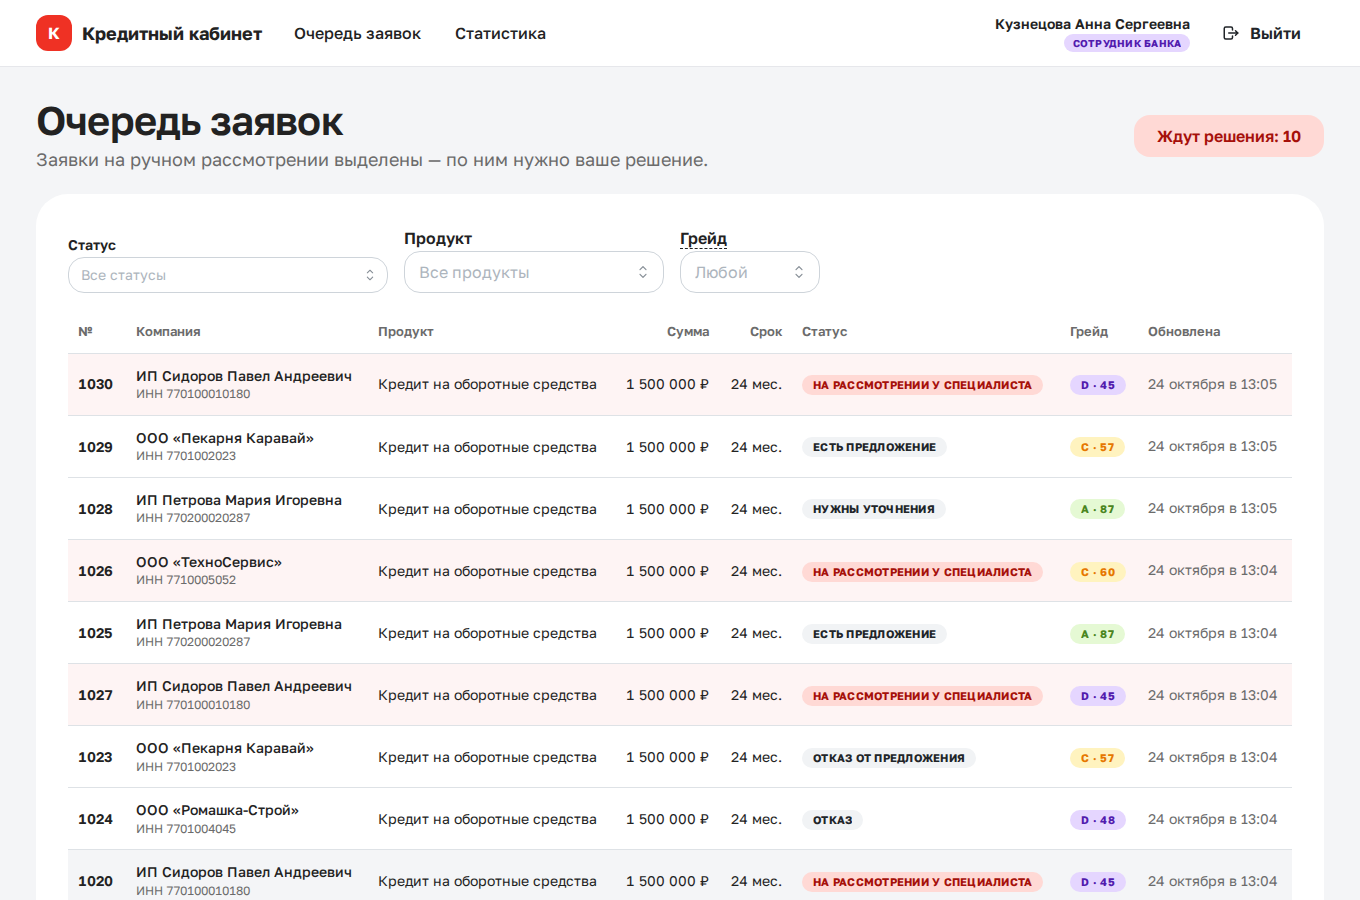
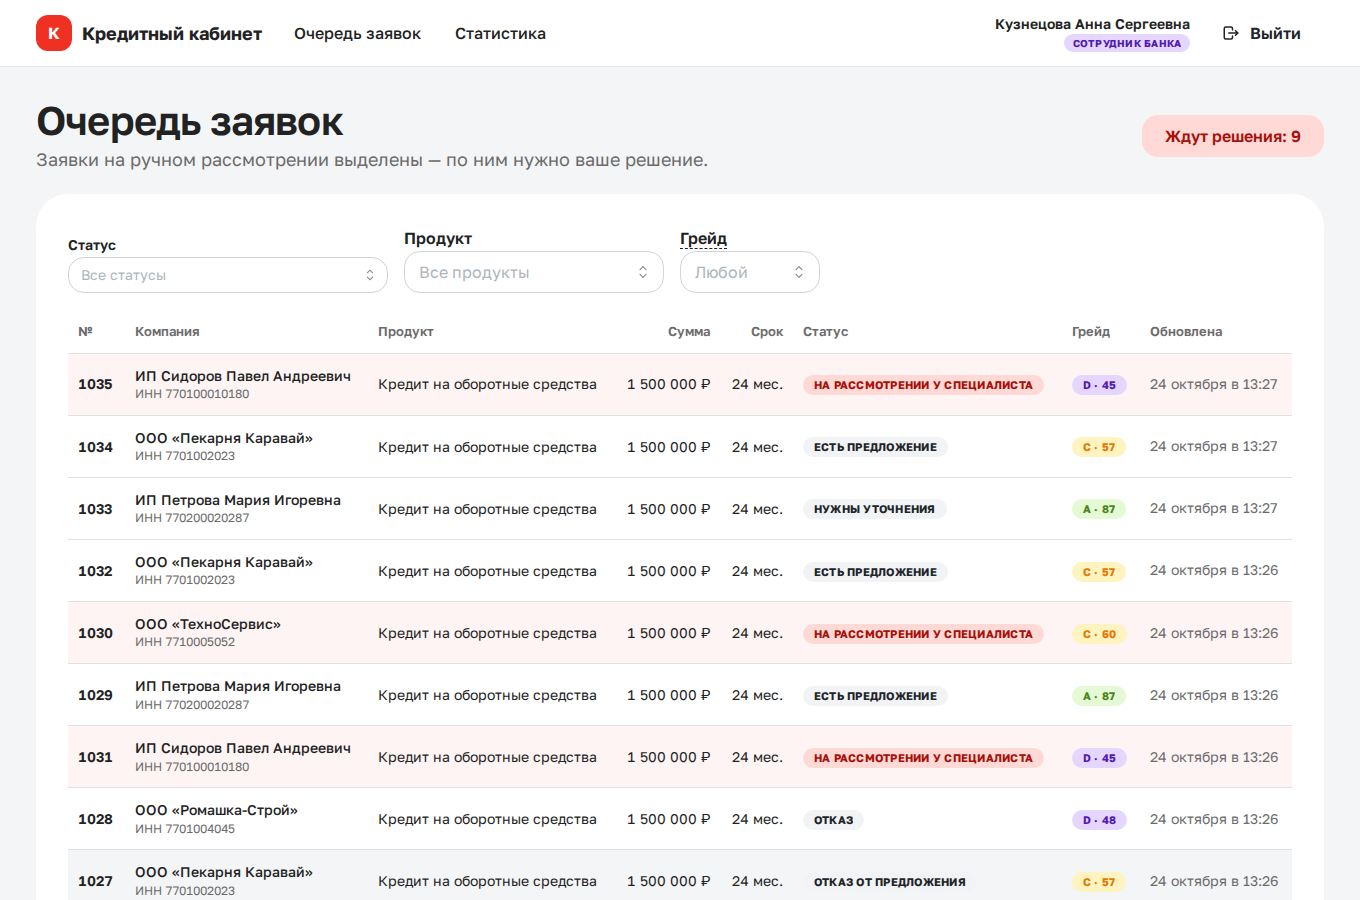
Исправления по проверке жюри в браузере: причина решения в карточке статуса, понятное объяснение встречного предложения, тексты, очередь на 768px

diff --git a/frontend/src/pages/bank/QueuePage.tsx b/frontend/src/pages/bank/QueuePage.tsx
@@ -14,6 +14,9 @@ import { useProducts } from "../client/ProductsPage";
 const PAGE_SIZE = 15;
 const GRADES = ["A", "B", "C", "D", "E"];
 
+// Бейджи в узкой таблице переносят текст, а не обрезают его многоточием
+const BADGE_NO_TRUNCATE = { root: { height: "auto", paddingBlock: 2 }, label: { whiteSpace: "normal" as const, overflow: "visible", textOverflow: "clip" } };
+
 export const GRADE_COLOR: Record<string, string> = { A: "lime", B: "lime", C: "yellow", D: "violet", E: "brand" };
 
 export function QueuePage() {
@@ -106,18 +109,18 @@ export function QueuePage() {
           {queue.isError && <ErrorState error={queue.error} onRetry={() => void queue.refetch()} />}
           {queue.data && queue.data.items.length === 0 && <EmptyState title="Заявок не найдено" text="Попробуйте убрать часть фильтров." />}
           {queue.data && queue.data.items.length > 0 && (
-            <Table.ScrollContainer minWidth={760}>
+            <Table.ScrollContainer minWidth={600}>
               <Table className="clean-table" verticalSpacing="sm" highlightOnHover={false} withRowBorders data-testid="queue-table">
                 <Table.Thead>
                   <Table.Tr>
                     <Table.Th>№</Table.Th>
                     <Table.Th>Компания</Table.Th>
-                    <Table.Th>Продукт</Table.Th>
+                    <Table.Th visibleFrom="md">Продукт</Table.Th>
                     <Table.Th ta="right">Сумма</Table.Th>
-                    <Table.Th ta="right">Срок</Table.Th>
+                    <Table.Th ta="right" visibleFrom="lg">Срок</Table.Th>
                     <Table.Th>Статус</Table.Th>
                     <Table.Th>Грейд</Table.Th>
-                    <Table.Th>Обновлена</Table.Th>
+                    <Table.Th visibleFrom="lg">Обновлена</Table.Th>
                   </Table.Tr>
                 </Table.Thead>
                 <Table.Tbody>
@@ -141,21 +144,21 @@ export function QueuePage() {
                           ИНН {item.company_inn}
                         </Text>
                       </Table.Td>
-                      <Table.Td>{item.product.name}</Table.Td>
+                      <Table.Td visibleFrom="md">{item.product.name}</Table.Td>
                       <Table.Td ta="right" className="num">
                         {money(item.amount, true)}
                       </Table.Td>
-                      <Table.Td ta="right" className="num">
+                      <Table.Td ta="right" className="num" visibleFrom="lg">
                         {months(item.term_months)}
                       </Table.Td>
                       <Table.Td>
-                        <Badge variant="light" color={item.status === "MANUAL_REVIEW" ? "brand" : "gray"}>
+                        <Badge variant="light" color={item.status === "MANUAL_REVIEW" ? "brand" : "gray"} styles={BADGE_NO_TRUNCATE}>
                           {item.status_label}
                         </Badge>
                       </Table.Td>
                       <Table.Td>
                         {item.grade ? (
-                          <Badge color={GRADE_COLOR[item.grade] ?? "gray"} variant="light">
+                          <Badge color={GRADE_COLOR[item.grade] ?? "gray"} variant="light" styles={BADGE_NO_TRUNCATE}>
                             {item.grade} · {item.score}
                           </Badge>
                         ) : (
@@ -164,7 +167,7 @@ export function QueuePage() {
                           </Text>
                         )}
                       </Table.Td>
-                      <Table.Td>
+                      <Table.Td visibleFrom="lg">
                         <Text size="sm" c={COLORS.textSecondary}>
                           {dateTime(item.updated_at)}
                         </Text>

diff --git a/frontend/src/pages/client/ApplicationPage.tsx b/frontend/src/pages/client/ApplicationPage.tsx
@@ -3,7 +3,7 @@
  * Пока заявка не в финальном статусе, она опрашивается каждые 3 секунды: статус, шкала этапов и история
  * обновляются на глазах, без перезагрузки страницы.
  */
-import { Anchor, Badge, Box, Card, Grid, Group, SimpleGrid, Stack, Text, Title } from "@mantine/core";
+import { Alert, Anchor, Badge, Box, Card, Grid, Group, SimpleGrid, Stack, Text, Title } from "@mantine/core";
 import { IconArrowLeft } from "@tabler/icons-react";
 import { useQuery } from "@tanstack/react-query";
 import { Link, useParams } from "react-router-dom";
@@ -36,6 +36,16 @@ function currentState(application: Application): { state: string; label: string 
   const step = application.progress.find((item) => item.state !== "done" && item.state !== "upcoming");
   if (step) return { state: step.state, label: step.state_label };
   return application.is_final ? { state: "done", label: "Готово" } : null;
+}
+
+/**
+ * Последнее пояснение банка, которое важно показать сразу под статусом: причина отказа или комментарий специалиста.
+ * Для остальных статусов пояснения уже есть в отдельных блоках (предложение, запрос уточнений).
+ */
+function latestBankMessage(application: Application): string | null {
+  if (application.status !== "REJECTED" && application.status !== "MANUAL_REVIEW") return null;
+  const last = application.timeline[application.timeline.length - 1];
+  return last?.status === application.status ? (last.comment ?? null) : null;
 }
 
 const STATE_COLOR: Record<string, string> = { current: "brand", action: "violet", stopped: "gray", done: "lime" };
@@ -110,6 +120,11 @@ export function ApplicationPage() {
           <Text size="lg" maw={760} data-testid="status-description">
             {application.status_description}
           </Text>
+          {latestBankMessage(application) && (
+            <Alert color={application.status === "REJECTED" ? "gray" : "violet"} radius="lg" title="Сообщение банка" maw={760} data-testid="bank-message">
+              {latestBankMessage(application)}
+            </Alert>
+          )}
           {!application.is_final && (
             <Text size="xs" c={COLORS.textSecondary}>
               Страница обновляется сама каждые 3 секунды

diff --git a/frontend/src/components/application/DocumentsBlock.tsx b/frontend/src/components/application/DocumentsBlock.tsx
@@ -75,6 +75,8 @@ export function DocumentsBlock({ application }: { application: Application }) {
     queryKey: ["documents", application.id, application.documents_count],
     queryFn: () => call(api.GET("/api/v1/applications/{application_id}/documents", { params: { path: { application_id: application.id } } })),
   });
+  // Если банк попросил конкретные документы, загрузка — в блоке «Что нужно от вас»; здесь — только для прочих файлов
+  const requestedDocuments = (application.info_request?.documents.length ?? 0) > 0;
   const canUpload = application.available_actions.some((action) => action.code === "upload_document" && action.enabled);
 
   return (
@@ -114,7 +116,7 @@ export function DocumentsBlock({ application }: { application: Application }) {
           </Group>
         ))}
         {canUpload && (
-          <Alert color="gray" radius="lg" variant="light" title="Загрузить документ">
+          <Alert color="gray" radius="lg" variant="light" title={requestedDocuments ? "Другие документы (необязательно)" : "Загрузить документ"}>
             <UploadForm application={application} />
           </Alert>
         )}

diff --git a/frontend/src/components/application/ActionBar.tsx b/frontend/src/components/application/ActionBar.tsx
@@ -48,7 +48,7 @@ export function ActionBar({ application }: { application: Application }) {
     <>
       <Group gap="sm" data-testid="actions">
         {actions.map((action) => {
-          const variant = action === primary ? "filled" : QUIET_ACTIONS.has(action.code) ? "default" : "light";
+          const variant = action === primary ? "filled" : NAVIGATION_ACTIONS.has(action.code) || QUIET_ACTIONS.has(action.code) ? "default" : "light";
           const button = (
             <Button
               key={action.code}
@@ -102,7 +102,7 @@ export function ActionBar({ application }: { application: Application }) {
               Назад
             </Button>
             <Button
-              color={confirming && QUIET_ACTIONS.has(confirming.code) ? "gray" : "brand"}
+              color={confirming && QUIET_ACTIONS.has(confirming.code) ? "dark" : "brand"}
               loading={mutation.isPending}
               disabled={Boolean(confirming?.requires_comment && !comment.trim())}
               onClick={() => {

diff --git a/frontend/src/pages/client/ApplicationFormPage.tsx b/frontend/src/pages/client/ApplicationFormPage.tsx
@@ -138,6 +138,13 @@ export function ApplicationFormPage() {
   }, [existing.data, loadedId]);
 
   const product = products.data?.find((item) => item.code === form.product_code);
+
+  // Если продукту подходит ровно одна цель, а цель не выбрана — подставляем её, чтобы не спрашивать очевидное
+  useEffect(() => {
+    if (product && !form.purpose_code && product.purposes.length === 1) {
+      setForm((current) => ({ ...current, purpose_code: product.purposes[0].code }));
+    }
+  }, [product, form.purpose_code]);
   const purposeOptions = (purposes.data ?? []).filter((item) => !product || product.purposes.some((purpose) => purpose.code === item.code));
   const selectedPurpose = purposes.data?.find((item) => item.code === form.purpose_code);
   const application = existing.data;

diff --git a/frontend/src/pages/bank/BankApplicationPage.tsx b/frontend/src/pages/bank/BankApplicationPage.tsx
@@ -22,11 +22,11 @@ type BankApplication = Schemas["BackofficeApplicationOut"];
 
 function Field({ label, value }: { label: ReactNode; value: ReactNode }) {
   return (
-    <Group justify="space-between" wrap="nowrap" py={5} style={{ borderBottom: `1px solid ${COLORS.border}` }}>
-      <Text size="sm" c={COLORS.textSecondary}>
+    <Group justify="space-between" wrap="nowrap" align="flex-start" py={5} style={{ borderBottom: `1px solid ${COLORS.border}` }}>
+      <Text size="sm" c={COLORS.textSecondary} style={{ flexShrink: 0 }}>
         {label}
       </Text>
-      <Text size="sm" fw={500} ta="right" className="num">
+      <Text size="sm" fw={500} ta="right" style={{ overflowWrap: "anywhere" }}>
         {value ?? "—"}
       </Text>
     </Group>

diff --git a/frontend/src/components/application/OfferCard.tsx b/frontend/src/components/application/OfferCard.tsx
@@ -96,9 +96,11 @@ export function OfferCard({ application }: { application: Application }) {
             {explanation}
           </Alert>
         )}
-        <Text size="sm" c={COLORS.textSecondary}>
-          Предложение действует до {dateTime(offer.valid_until)}.
-        </Text>
+        {offer.status === "active" && (
+          <Text size="sm" c={COLORS.textSecondary}>
+            Предложение действует до {dateTime(offer.valid_until)}.
+          </Text>
+        )}
       </Stack>
     </Card>
   );

diff --git a/frontend/src/components/Timeline.tsx b/frontend/src/components/Timeline.tsx
@@ -39,7 +39,7 @@ export function Timeline({ items }: { items: Item[] }) {
               <Text fw={600}>{item.title}</Text>
               {item.comment && <Text size="sm">{item.comment}</Text>}
               <Text size="xs" c={COLORS.textSecondary}>
-                {item.actor} · статус «{item.status_label}»
+                {item.actor}
               </Text>
             </Stack>
             <Text size="xs" c={COLORS.textSecondary} style={{ whiteSpace: "nowrap" }}>

diff --git a/backend/app/domain/decision.py b/backend/app/domain/decision.py
@@ -15,7 +15,7 @@ from dataclasses import dataclass, field
 from decimal import ROUND_DOWN, Decimal
 
 from app.core.business_config import DecisionFile
-from app.domain.formatting import format_percent
+from app.domain.formatting import format_money, format_percent
 from app.domain.payments import annuity_payment, max_amount_for_payment
 from app.domain.scoring import ScoringFacts
 from app.models.offer import OFFER_AS_REQUESTED, OFFER_COUNTER
@@ -170,7 +170,14 @@ def make_decision(data: DecisionInput, config: DecisionFile, reason_texts: dict[
         amount_share = rule.amount_share
         reasons.append(reason("grade_counter_offer", share=format_percent(rule.amount_share * 100)))
     if too_much_debt:
-        reasons.append(reason("high_debt_load", dti=round(dti * 100), max_dti=format_percent(config.max_debt_to_income * 100)))
+        reasons.append(
+            reason(
+                "high_debt_load",
+                dti=round(dti * 100),
+                max_dti=format_percent(config.max_debt_to_income * 100),
+                current_payments=format_money(data.facts.current_loan_payments),
+            )
+        )
 
     if not reasons:
         return Decision(

diff --git a/docs/PROGRESS.md b/docs/PROGRESS.md
@@ -167,6 +167,11 @@
 - Мок ФНС «Прозрачный бизнес» (налоговая нагрузка, среднесписочная численность) как ещё один фактор скоринга.
 - PDF-версия договора (сейчас HTML, чтобы не добавлять зависимости).
 - Поиск в очереди сотрудника по названию компании и ИНН.
+- Подбор продукта: при равных баллах ставить выше продукт с меньшей ставкой и пометить «выгоднее» (сейчас первым может
+  идти более дорогой «Экспресс-кредит»).
+- Шкала этапов: при сбое БКИ отмечать этап «Госреестр и кредитная история» как «с проблемой», а не зелёной галочкой
+  (нужно новое состояние в `progress`).
+- В истории сотрудника показывать названия статусов вместо кодов (`SCORING → MANUAL_REVIEW`).
 
 
 # Фронтенд
@@ -186,7 +191,7 @@
 - [x] 6. Подсказки по терминам (один файл), состояния загрузки/пустоты/ошибок, полировка текстов
 - [x] 7. Playwright E2E: 6 учёток клиента, ручное рассмотрение (сотрудник → клиент), запрос уточнений
 - [x] 8. Документация: README (фронт), architecture, THIRD_PARTY_NOTICES, скриншоты `docs/screenshots/`
-- [ ] 9. Проверка субагентом-«жюри» в браузере, исправления
+- [x] 9. Проверка субагентом-«жюри» в браузере, исправления
 
 ## Журнал этапов фронтенда
 
@@ -222,3 +227,16 @@
   `data-number`; поведение интерфейса не менялось.
 - Скриншоты 10 ключевых экранов — `docs/screenshots/` (`--grep @screenshots`). README (раздел «Как проверить в браузере»),
   `docs/test-scenarios.md`, `docs/architecture.md`, `THIRD_PARTY_NOTICES.md` обновлены.
+
+### Этап 9 — проверка субагентом-«жюри» в браузере (готово)
+Поднял всё с нуля по README, прошёл все сценарии в Playwright со скриншотами: критичных проблем нет, исходы верные,
+кнопки/суммы/этапы совпадают с API, решение сотрудника доходит до клиента ~за секунду, тесты зелёные. Исправлено:
+- текст статуса «Кредит выдан» обещал график платежей в договоре, которого нет → текст исправлен (`labels.yaml`);
+- объяснение встречного предложения не говорило, откуда нагрузка при «0 ₽» в анкете → теперь называет платежи по данным
+  бюро и что ставка выше с учётом риска (`labels.yaml` + подстановка `current_payments` в `domain/decision.py`);
+- причина отказа и комментарий специалиста теперь прямо в карточке статуса («Сообщение банка»), а не только в истории;
+- экран «Нужны уточнения»: кнопки-переходы спокойные, вторая форма загрузки подписана «Другие документы (необязательно)»;
+- очередь на 768px: второстепенные колонки скрываются, бейджи не обрезаются; длинные значения в карточке переносятся;
+- «Действует до» — только у действующего предложения; у продукта с одной целью цель подставляется сама;
+  событие «Уточнения отправлены в банк» вместо «Вы отправили…» (видно и сотруднику); кнопка в диалоге отказа заметнее.
+Тесты после исправлений: бэкенд 183, интерфейс 12 — зелёные.

diff --git a/docs/test-scenarios.md b/docs/test-scenarios.md
@@ -107,8 +107,9 @@
 | Ожидаемый итог | `OFFER_SENT`, предложение `counter_offer` |
 
 Итог: `offer.offer_type: counter_offer`, `offer_type_label: "На изменённых условиях"`, `amount: 1050000`,
-`term_months: 24`, `rate: 21.5`. Комментарий в истории объясняет почему: «по результатам оценки можем предложить до 70%
-от запрошенной суммы; платежи по кредитам заняли бы 51% выручки при допустимых 50%. Предлагаем: 1 050 000 ₽ на 24 мес. под 21,5% годовых.»
+`term_months: 24`, `rate: 21.5`. Комментарий в истории объясняет почему: «По результатам оценки риска можем предложить до 70% от запрошенной суммы, ставка выше базовой с учётом риска;
+по данным бюро кредитных историй компания уже платит по кредитам 330 000 ₽ в месяц; вместе с новым кредитом платежи
+заняли бы 51% выручки при допустимых 50%. Предлагаем: 1 050 000 ₽ на 24 мес. под 21,5% годовых.»
 
 Дальше можно `decline_offer` (тело `{"comment": "Нужна вся сумма"}`) → `CLIENT_DECLINED`, или принять и подписать.
 
